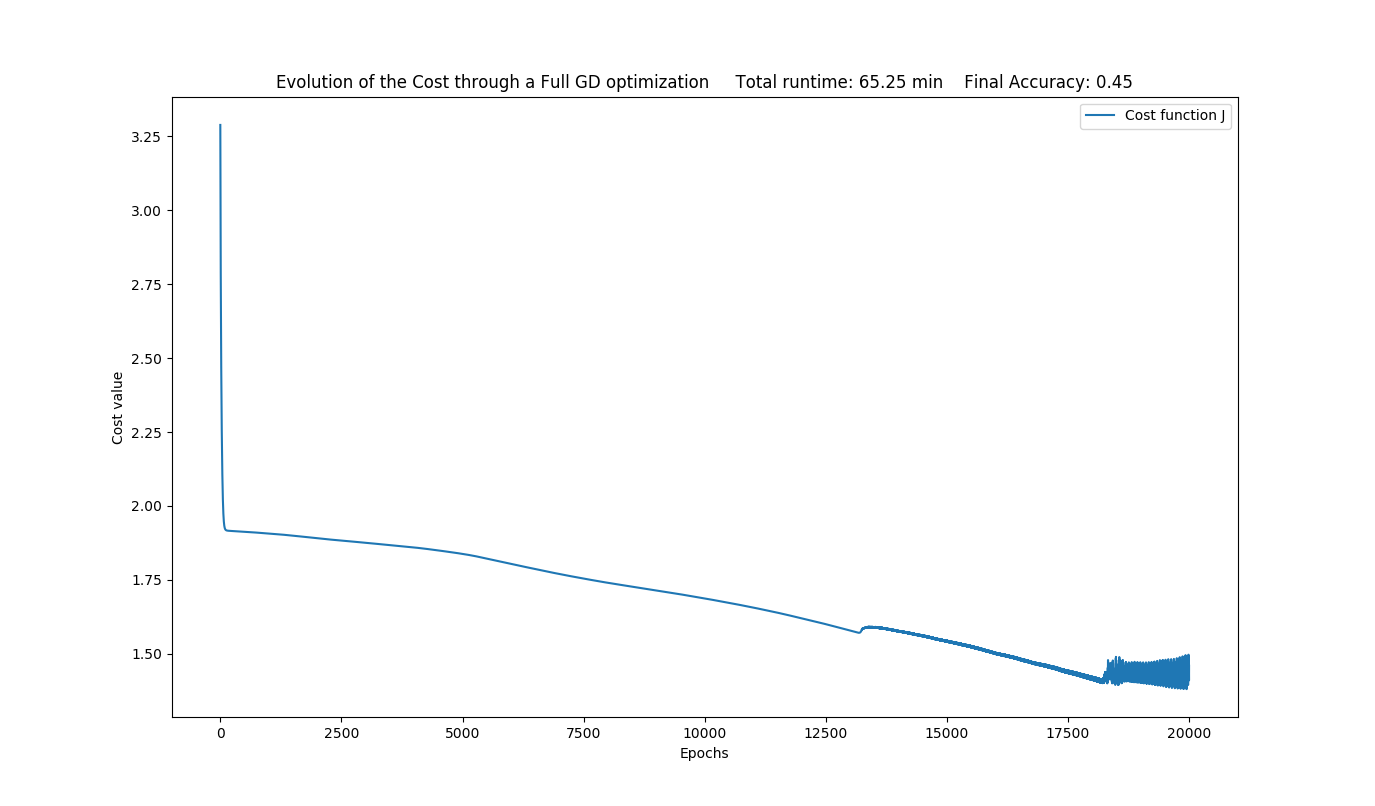
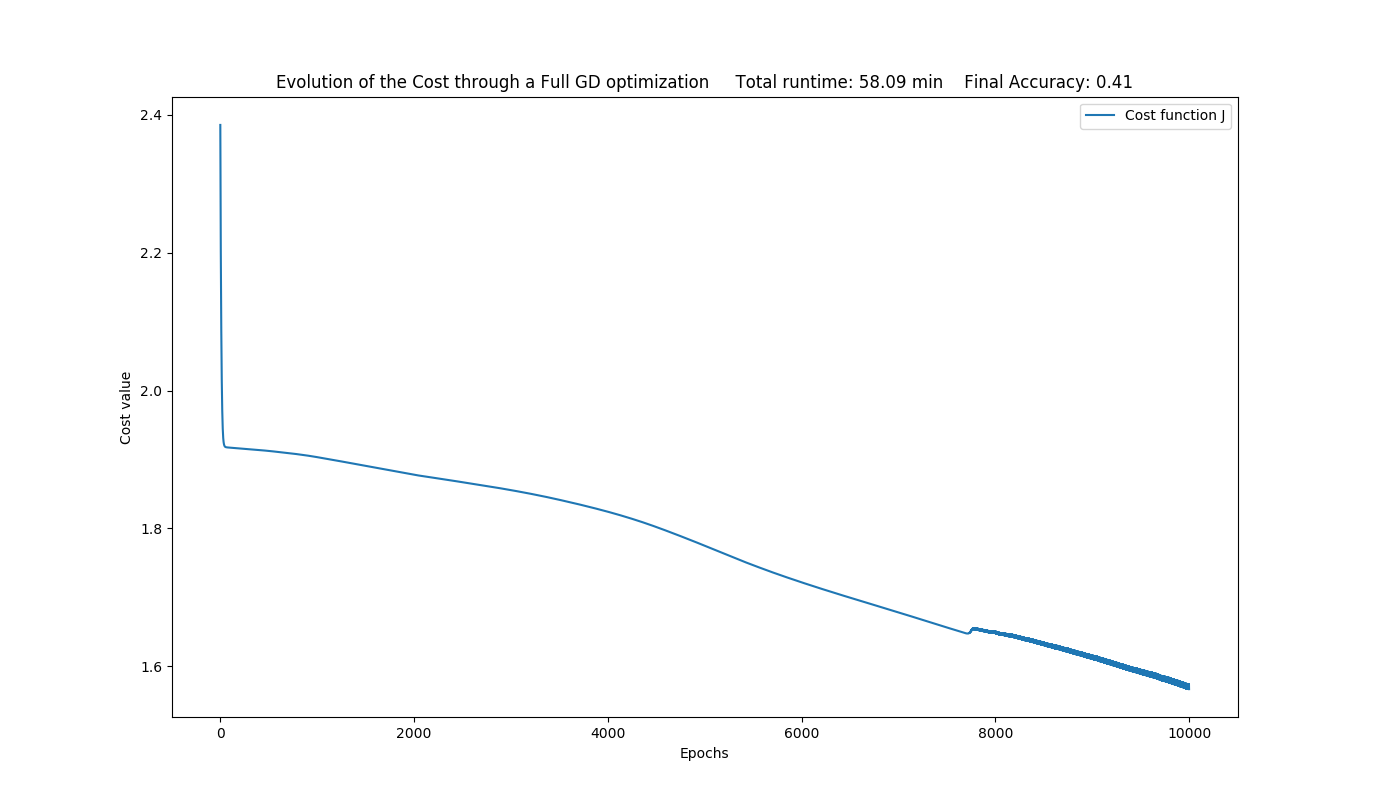
Add files via upload

diff --git a/facial_expr_recognition.py b/facial_expr_recognition.py
@@ -36,7 +36,7 @@ def getData(balance_ones=True):
 
     X, Y = shuffle(X, Y)
     # selects only the last 1000 samples
-    Xvalid, Yvalid = X[-2000:], Y[-2000:] 
+    Xvalid, Yvalid = X[-4000:], Y[-4000:] 
 
     return Xvalid, Yvalid
 
@@ -50,7 +50,7 @@ def main():
     model = ANN_relu([100,100,100,100])
     # model = ANN_relu([200,200,200])
     # model.fit(X, Y, learning_rate=1*10e-7, epochs=10000, reg=0, show_fig=True)
-    model.fit(X, Y, alpha=1e-6, epochs=20000, reg=1e-2, show_fig=True)
+    model.fit(X, Y, alpha=1e-6, epochs=10000, reg=1e-2, show_fig=True)
     # # print('The total score is: ', model.score(X, Y))
     Ypred = model.predict(X)
     print('\nFinal model accuracy: {:.4f}'.format(np.mean(Y==Ypred)))

diff --git a/facial_expr_recognition_batch.py b/facial_expr_recognition_batch.py
@@ -36,7 +36,7 @@ def getData(balance_ones=True):
 
     X, Y = shuffle(X, Y)
     # selects only the last 1000 samples
-    Xvalid, Yvalid = X[-2000:], Y[-2000:] 
+    Xvalid, Yvalid = X[-4000:], Y[-4000:] 
 
     return Xvalid, Yvalid
 
